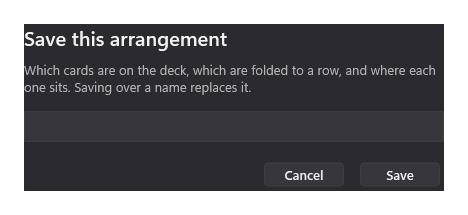
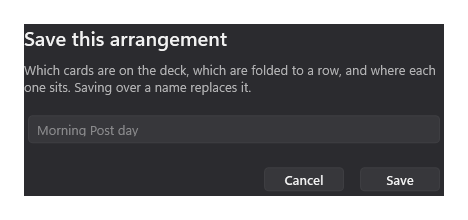
Match prompt and tray attention styling

diff --git a/Windows/DevDeck.Shell/WindowsStyles.xaml b/Windows/DevDeck.Shell/WindowsStyles.xaml
@@ -201,6 +201,66 @@
     </Setter>
   </Style>
 
+  <Style x:Key="PromptTextBox" TargetType="TextBox">
+    <Setter Property="Background" Value="{StaticResource ControlFill}" />
+    <Setter Property="BorderBrush" Value="{StaticResource ControlStroke}" />
+    <Setter Property="Foreground" Value="{StaticResource TextPrimary}" />
+    <Setter Property="CaretBrush" Value="{StaticResource TextPrimary}" />
+    <Setter Property="FontFamily" Value="{StaticResource DevDeckSans}" />
+    <Setter Property="FontSize" Value="13" />
+    <Setter Property="Padding" Value="8,6" />
+    <Setter Property="Height" Value="36" />
+    <Setter Property="Template">
+      <Setter.Value>
+        <ControlTemplate TargetType="TextBox">
+          <Border
+              x:Name="FocusBorder"
+              Background="Transparent"
+              BorderBrush="Transparent"
+              BorderThickness="2"
+              CornerRadius="6">
+            <Border
+                x:Name="ControlBorder"
+                Margin="2"
+                Background="{TemplateBinding Background}"
+                BorderBrush="{TemplateBinding BorderBrush}"
+                BorderThickness="1"
+                CornerRadius="4">
+              <Grid>
+                <ScrollViewer
+                    x:Name="PART_ContentHost"
+                    Margin="{TemplateBinding Padding}"
+                    VerticalAlignment="Center" />
+                <TextBlock
+                    x:Name="Placeholder"
+                    Text="{TemplateBinding Tag}"
+                    Margin="{TemplateBinding Padding}"
+                    Foreground="{StaticResource TextTertiary}"
+                    FontFamily="{TemplateBinding FontFamily}"
+                    FontSize="{TemplateBinding FontSize}"
+                    VerticalAlignment="Center"
+                    IsHitTestVisible="False"
+                    Visibility="Collapsed" />
+              </Grid>
+            </Border>
+          </Border>
+          <ControlTemplate.Triggers>
+            <Trigger Property="Text" Value="">
+              <Setter TargetName="Placeholder" Property="Visibility" Value="Visible" />
+            </Trigger>
+            <Trigger Property="IsKeyboardFocused" Value="True">
+              <Setter TargetName="FocusBorder" Property="BorderBrush" Value="{StaticResource FocusOuter}" />
+              <Setter TargetName="ControlBorder" Property="BorderBrush" Value="{StaticResource FocusInner}" />
+            </Trigger>
+            <Trigger Property="IsEnabled" Value="False">
+              <Setter Property="Opacity" Value="0.42" />
+            </Trigger>
+          </ControlTemplate.Triggers>
+        </ControlTemplate>
+      </Setter.Value>
+    </Setter>
+  </Style>
+
   <Style x:Key="HeaderIconButton" TargetType="Button" BasedOn="{StaticResource FluentButton}">
     <Setter Property="Width" Value="24" />
     <Setter Property="Height" Value="24" />

diff --git a/Windows/DevDeck.Shell.Tests/Program.cs b/Windows/DevDeck.Shell.Tests/Program.cs
@@ -74,6 +74,7 @@ public static class Program
         Run("menu alternates send their own command", MenuAlternatesSendTheirOwnCommand);
         Run("card windows accept their context menu", CardWindowsAcceptTheirContextMenu);
         Run("tray status creates every icon tier", TrayStatusCreatesEveryIconTier);
+        Run("prompt fields show their model placeholder and focus ring", PromptFieldsShowTheirModelPlaceholderAndFocusRing);
         Console.WriteLine();
         Console.WriteLine($"{passed} passed, {failed} failed");
         Application.Current.Shutdown();
@@ -636,6 +637,53 @@ public static class Program
                 Equal(new System.Drawing.Size(32, 32), icon.Size);
             }
         }
+
+        var lightNeedsFixing = Pixel(TrayIconFactory.Preview(32, 1, true), 26, 26);
+        var darkNeedsFixing = Pixel(TrayIconFactory.Preview(32, 1, false), 26, 26);
+        var waiting = Pixel(TrayIconFactory.Preview(32, 0, false), 26, 26);
+        True(lightNeedsFixing.R < 80 && lightNeedsFixing.G < 80 && lightNeedsFixing.B < 80);
+        True(darkNeedsFixing.R > 200 && darkNeedsFixing.G > 200 && darkNeedsFixing.B > 200);
+        True(waiting.R > waiting.G + 40 && waiting.R > waiting.B + 40);
+    }
+
+    private static void PromptFieldsShowTheirModelPlaceholderAndFocusRing()
+    {
+        var value = RuntimeMenuValue("runtime-menu-en.expected.jsonl", "menu", last: false);
+        var prompt = Flatten(DeckMenuEntryModel.ParseList(value))
+            .Select(entry => entry.Item?.Prompt)
+            .Single(model => model is not null) ?? throw new Exception();
+        var window = MenuDialogs.Build(prompt, prompt.Placeholder, out var field, out _);
+        var textBox = field ?? throw new Exception();
+        window.Show();
+        textBox.ApplyTemplate();
+        window.UpdateLayout();
+
+        Equal(WindowsTheme.Brush("ControlFill"), textBox.Background);
+        Equal(WindowsTheme.Brush("ControlStroke"), textBox.BorderBrush);
+        var placeholder = (TextBlock)textBox.Template.FindName("Placeholder", textBox);
+        Equal(prompt.Placeholder, placeholder.Text);
+        Equal(WindowsTheme.Brush("TextTertiary"), placeholder.Foreground);
+        Equal(Visibility.Visible, placeholder.Visibility);
+
+        textBox.Text = "Desk";
+        window.UpdateLayout();
+        Equal(Visibility.Collapsed, placeholder.Visibility);
+
+        textBox.Text = "";
+        _ = textBox.Focus();
+        textBox.Dispatcher.Invoke(() => { }, DispatcherPriority.ApplicationIdle);
+        var focusBorder = (Border)textBox.Template.FindName("FocusBorder", textBox);
+        var controlBorder = (Border)textBox.Template.FindName("ControlBorder", textBox);
+        Equal(WindowsTheme.Brush("FocusOuter"), focusBorder.BorderBrush);
+        Equal(WindowsTheme.Brush("FocusInner"), controlBorder.BorderBrush);
+        window.Close();
+    }
+
+    private static Color Pixel(System.Windows.Media.Imaging.BitmapSource image, int x, int y)
+    {
+        var pixel = new byte[4];
+        image.CopyPixels(new Int32Rect(x, y, 1, 1), pixel, 4, 0);
+        return Color.FromArgb(pixel[3], pixel[2], pixel[1], pixel[0]);
     }
 
     private static IEnumerable<DeckMenuEntryModel> Flatten(IReadOnlyList<DeckMenuEntryModel> entries)

diff --git a/Windows/DevDeck.Shell/TrayController.cs b/Windows/DevDeck.Shell/TrayController.cs
@@ -172,14 +172,15 @@ public static class TrayIconFactory
                 Height = size * 0.34,
                 HorizontalAlignment = HorizontalAlignment.Right,
                 VerticalAlignment = VerticalAlignment.Bottom,
-                Fill = tier == 0 ? WindowsTheme.Brush("ToneAlert") : WindowsTheme.Brush("ToneAttention"),
+                Fill = tier switch
+                {
+                    0 => WindowsTheme.Brush("ToneAlert"),
+                    1 => foreground,
+                    _ => Brushes.Transparent,
+                },
                 Stroke = tier == 2 ? foreground : null,
                 StrokeThickness = tier == 2 ? Math.Max(1, size / 16.0) : 0,
             };
-            if (tier == 2)
-            {
-                badge.Fill = Brushes.Transparent;
-            }
             root.Children.Add(badge);
         }
         root.Measure(new Size(size, size));

diff --git a/Windows/DevDeck.Shell/MenuDialogs.cs b/Windows/DevDeck.Shell/MenuDialogs.cs
@@ -67,14 +67,9 @@ public sealed class MenuDialogs : IMenuDialogs
         {
             field = new TextBox
             {
-                FontFamily = WindowsTheme.Sans,
-                FontSize = 13,
-                Padding = new Thickness(8, 6, 8, 6),
-                ToolTip = placeholder,
+                Style = WindowsTheme.Style("PromptTextBox"),
+                Tag = placeholder,
                 Margin = new Thickness(0, 0, 0, 16),
-                Background = WindowsTheme.Brush("ControlFill"),
-                Foreground = WindowsTheme.Brush("TextPrimary"),
-                BorderBrush = WindowsTheme.Brush("ControlStroke"),
             };
             System.Windows.Automation.AutomationProperties.SetHelpText(field, placeholder);
             content.Children.Add(field);
